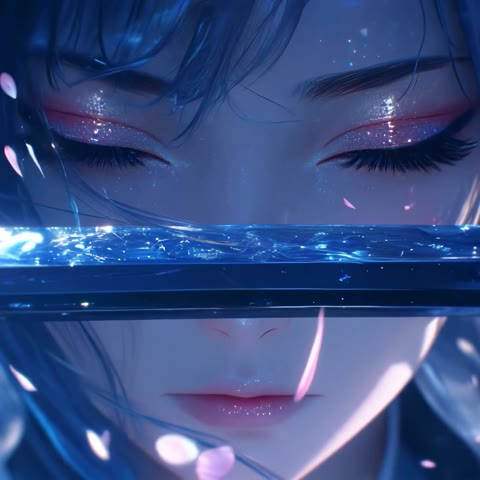
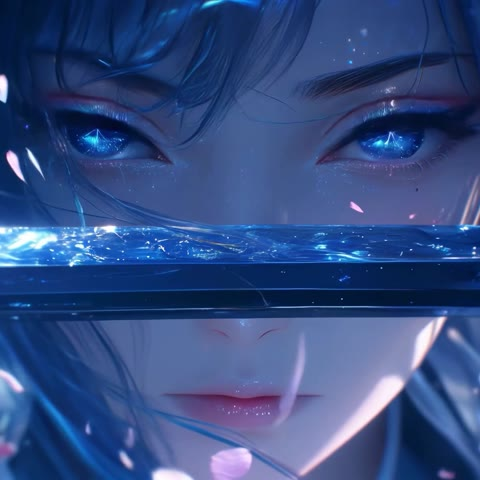
Fix: bump music.js cache version (player kept old stepVideo); regrab feihua poster at 5.0s with eyes open and bust image cache

diff --git a/music.html b/music.html
@@ -238,7 +238,7 @@
 		var albumData={
 			
 			zidingyi:{title:"自定义",singer:"许嵩",date:"2009/01/10",cover:"img/自定义cover.png",url:"./Albums/自定义",intro:"许嵩的第一张专辑，也是“许嵩现象”的起点：没有唱片公司宣传推广，一个人包办全部词曲、编曲、录音和混音，仅仅靠歌迷自发在网络上传播就扩散开来。冷色调的感情逻辑贯穿始终，复古与流行碰撞的旋律随处可见，《清明雨上》是江南韵味的小调，《城府》写离别写得哀婉，《有何不可》《多余的解释》《如果当时》则带着强烈的叙事感和自嘲意味。乐评人说，这张专辑每首歌都像一出悲喜剧，难以定义、难以归类，但有血有肉、惹人玩味。",tracks:["有何不可","多余的解释","清明雨上","认错","城府","内线","坏孩子","如果当时","星座书上"],
-			covers:{"有何不可":"Albums/自定义/img/有何不可cover.png","多余的解释":"Albums/自定义/img/多余的解释cover.png","清明雨上":"Albums/自定义/img/清明雨上cover.png","认错":"Albums/自定义/img/认错cover.png","城府":"Albums/自定义/img/城府cover.png","内线":"vid/feihua-rumeng.jpg","坏孩子":"Albums/自定义/img/坏孩子cover.png","如果当时":"Albums/自定义/img/如果当时cover.png"},
+			covers:{"有何不可":"Albums/自定义/img/有何不可cover.png","多余的解释":"Albums/自定义/img/多余的解释cover.png","清明雨上":"Albums/自定义/img/清明雨上cover.png","认错":"Albums/自定义/img/认错cover.png","城府":"Albums/自定义/img/城府cover.png","内线":"vid/feihua-rumeng.jpg?v=2","坏孩子":"Albums/自定义/img/坏孩子cover.png","如果当时":"Albums/自定义/img/如果当时cover.png"},
 			intros:{
 			"有何不可":"这张专辑里传唱度最高的一首。旋律几乎是顺口溜式的简单，「为你唱这首歌，没有什么风格」一句被无数人记住。写的是少年人那种没什么道理的喜欢——不必讲条件，也不必问结果。",
 			"多余的解释":"写感情里解释的无力。话越说越多，误会反而越结越紧，最后连解释本身都成了对方眼里的辩解。副歌的旋律线一路向下，情绪跟着一起沉。",

diff --git a/js/video-bg.js b/js/video-bg.js
@@ -9,8 +9,9 @@
    2) videoBgTotalSongs：全站歌曲总数（新增歌曲/专辑后同步改这个数字）
   3) videoBgBySong：给某一首歌锁定专属背景，键是播放页 data 里的 song 字段，
         格式与池子里的条目一样；锁定的视频不要再放进 videoBgPool（避免别的歌也随机到）
-  4) 改完本文件，务必把 7 个专辑页里的 `video-bg.js?v=YYYYMMDD` 版本号一起改掉
-     —— GitHub Pages 对 .js 是 4 小时强缓存，不换版本号线上会一直用旧池
+  4) 改完本文件，务必把 7 个专辑页里的 `video-bg.js?v=YYYYMMDD` 版本号一起改掉；
+     改了各专辑的 js/music.js 也要把那边的 `music.js?v=N` 加一
+     —— GitHub Pages 对 .js 是 4 小时强缓存，不换版本号线上会一直跑旧代码
 
    概率规则（按需求）：
    概率 = 视频数 / 歌曲总数，钳制在 10% ~ 50% 之间；
@@ -40,7 +41,7 @@
     /* ---- 专属背景：按歌名锁定视频，进到这首歌必出，不参与上面的随机池 ----
        键是播放页 data 里的 song 字段（要与歌名完全一致） */
     var videoBgBySong={
-        "内线": {src:"../../vid/feihua-rumeng.mp4", poster:"../../vid/feihua-rumeng.jpg", cover:"../../vid/feihua-rumeng-disc.jpg"}
+        "内线": {src:"../../vid/feihua-rumeng.mp4", poster:"../../vid/feihua-rumeng.jpg?v=2", cover:"../../vid/feihua-rumeng-disc.jpg?v=2"}
     };
 
     /* 专属视频自动从随机池剔除（同 src 视为同一条）：

diff --git a/Albums/TreasureHunting/index.html b/Albums/TreasureHunting/index.html
@@ -200,7 +200,7 @@
 		<audio  src="mp3/音阙诗听,昆玉 - 我已经到了幻想尽头.m4a"></audio>
 	</div>
 <script type="text/javascript" src="js/move.js"></script>
-<script type="text/javascript" src="../../js/video-bg.js?v=20261102c"></script>
-<script type="text/javascript" src="js/music.js?v=36"></script>
+<script type="text/javascript" src="../../js/video-bg.js?v=20261102d"></script>
+<script type="text/javascript" src="js/music.js?v=42"></script>
 </body>
 </html>

diff --git a/Albums/YouthEveningPaper/index.html b/Albums/YouthEveningPaper/index.html
@@ -201,7 +201,7 @@
 		<audio  src="mp3/音阙诗听,昆玉 - 我已经到了幻想尽头.m4a"></audio>
 	</div>
 <script type="text/javascript" src="js/move.js"></script>
-<script type="text/javascript" src="../../js/video-bg.js?v=20261102c"></script>
-<script type="text/javascript" src="js/music.js?v=36"></script>
+<script type="text/javascript" src="../../js/video-bg.js?v=20261102d"></script>
+<script type="text/javascript" src="js/music.js?v=42"></script>
 </body>
 </html>

diff --git a/Albums/不如吃茶去/index.html b/Albums/不如吃茶去/index.html
@@ -198,7 +198,7 @@
 		<audio  src="mp3/音阙诗听,昆玉 - 我已经到了幻想尽头.m4a"></audio>
 	</div>
 <script type="text/javascript" src="js/move.js"></script>
-<script type="text/javascript" src="../../js/video-bg.js?v=20261102c"></script>
-<script type="text/javascript" src="js/music.js?v=36"></script>
+<script type="text/javascript" src="../../js/video-bg.js?v=20261102d"></script>
+<script type="text/javascript" src="js/music.js?v=42"></script>
 </body>
 </html>

diff --git a/Albums/寻雾启示/index.html b/Albums/寻雾启示/index.html
@@ -198,7 +198,7 @@
 		<audio  src="mp3/音阙诗听,昆玉 - 我已经到了幻想尽头.m4a"></audio>
 	</div>
 <script type="text/javascript" src="js/move.js"></script>
-<script type="text/javascript" src="../../js/video-bg.js?v=20261102c"></script>
-<script type="text/javascript" src="js/music.js?v=36"></script>
+<script type="text/javascript" src="../../js/video-bg.js?v=20261102d"></script>
+<script type="text/javascript" src="js/music.js?v=42"></script>
 </body>
 </html>

diff --git a/Albums/梦游计/index.html b/Albums/梦游计/index.html
@@ -208,7 +208,7 @@
 		<audio  src="mp3/音阙诗听,昆玉 - 我已经到了幻想尽头.m4a"></audio>
 	</div>
 <script type="text/javascript" src="js/move.js"></script>
-<script type="text/javascript" src="../../js/video-bg.js?v=20261102c"></script>
-<script type="text/javascript" src="js/music.js?v=36"></script>
+<script type="text/javascript" src="../../js/video-bg.js?v=20261102d"></script>
+<script type="text/javascript" src="js/music.js?v=42"></script>
 </body>
 </html>

diff --git a/Albums/自定义/index.html b/Albums/自定义/index.html
@@ -200,7 +200,7 @@
 		<audio  src="mp3/音阙诗听,昆玉 - 我已经到了幻想尽头.m4a"></audio>
 	</div>
 <script type="text/javascript" src="js/move.js"></script>
-<script type="text/javascript" src="../../js/video-bg.js?v=20261102c"></script>
-<script type="text/javascript" src="js/music.js?v=41"></script>
+<script type="text/javascript" src="../../js/video-bg.js?v=20261102d"></script>
+<script type="text/javascript" src="js/music.js?v=42"></script>
 </body>
 </html>

diff --git a/Albums/苏格拉没有㡳/index.html b/Albums/苏格拉没有㡳/index.html
@@ -134,7 +134,7 @@
 		<audio  src="mp3/音阙诗听,昆玉 - 我已经到了幻想尽头.m4a"></audio>
 	</div>
 <script type="text/javascript" src="js/move.js"></script>
-<script type="text/javascript" src="../../js/video-bg.js?v=20261102c"></script>
-<script type="text/javascript" src="js/music.js?v=36"></script>
+<script type="text/javascript" src="../../js/video-bg.js?v=20261102d"></script>
+<script type="text/javascript" src="js/music.js?v=42"></script>
 </body>
 </html>
